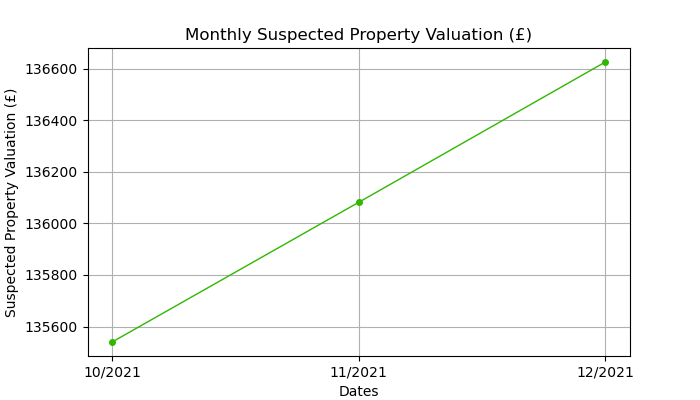
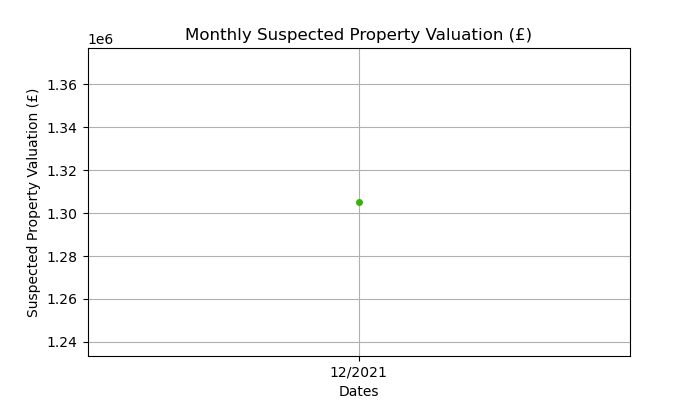
fixed home page for 1 monthly entry

diff --git a/main.py b/main.py
@@ -1043,7 +1043,7 @@ def homePage():
             unitMonths = unitMonths + 1
             susValue = cursor.execute("SELECT suspected_Property_Value FROM units_Monthly WHERE unit_ID = '" + scrambledUnitID + "' AND year = '" + scramble(orderedListOfListedDates[i][1]) + "' AND month = '" + scramble(orderedListOfListedDates[i][0]) + "'").fetchall()
             if len(susValue) != 0:
-                dictOfDates[(orderedListOfListedDates[x][0] + "/" + orderedListOfListedDates[x][1])] = dictOfDates[(orderedListOfListedDates[x][0] + "/" + orderedListOfListedDates[x][1])] + susValue[0][0]
+                dictOfDates[(str(orderedListOfListedDates[x][0]) + "/" + str(orderedListOfListedDates[x][1]))] = float(dictOfDates[(str(orderedListOfListedDates[x][0]) + "/" + str(orderedListOfListedDates[x][1]))]) + float(deScramble(susValue[0][0]))
     closeDatabase()
     if howManyUnits != 0 and unitMonths != 0:
         firstMonth = orderedListOfListedDates[0][0] + "/" +  orderedListOfListedDates[0][1]
@@ -1073,8 +1073,12 @@ def homePage():
         endValue = yValuesSuspropertyValues[len(yValuesSuspropertyValues)-1]
         totalValueIncrease = round(endValue - startValue,2)
         totalValueIncreasePercentage = str(round((((endValue/startValue)*100)-100),2)) + "%"
-        averageMonthlyIncrease = round(totalValueIncrease/(len(monthlyDates)-1),2)
-        averageGrowthRate = str(round(((((endValue/startValue)**(1/(len(monthlyDates)-1))) * 100) - 100),4)) + "%"
+        if len(monthlyDates) == 1:
+            averageMonthlyIncrease = round(totalValueIncrease,2)
+            averageGrowthRate = str(round((((endValue/startValue) * 100) - 100),4)) + "%"
+        else:
+            averageMonthlyIncrease = round(totalValueIncrease/(len(monthlyDates)-1),2)
+            averageGrowthRate = str(round(((((endValue/startValue)**(1/(len(monthlyDates)-1))) * 100) - 100),4)) + "%"
 
         sixMonthIncomevsExpenditureTitle = Label(root, font=(font.data,'16','bold'), text='Portfolio Value over time', justify='center', bg=secondry.data,fg=primary.data).place(relx=0.47, rely=0.7, anchor=CENTER)
         sixMonthIncomevsExpenditure = Label(root, font=(font.data,'14'), text='Average Montlhy Value Increase (%) : ' + str(averageGrowthRate), justify='center', bg=secondry.data,fg=primary.data).place(relx=0.47, rely=0.73, anchor=CENTER)
